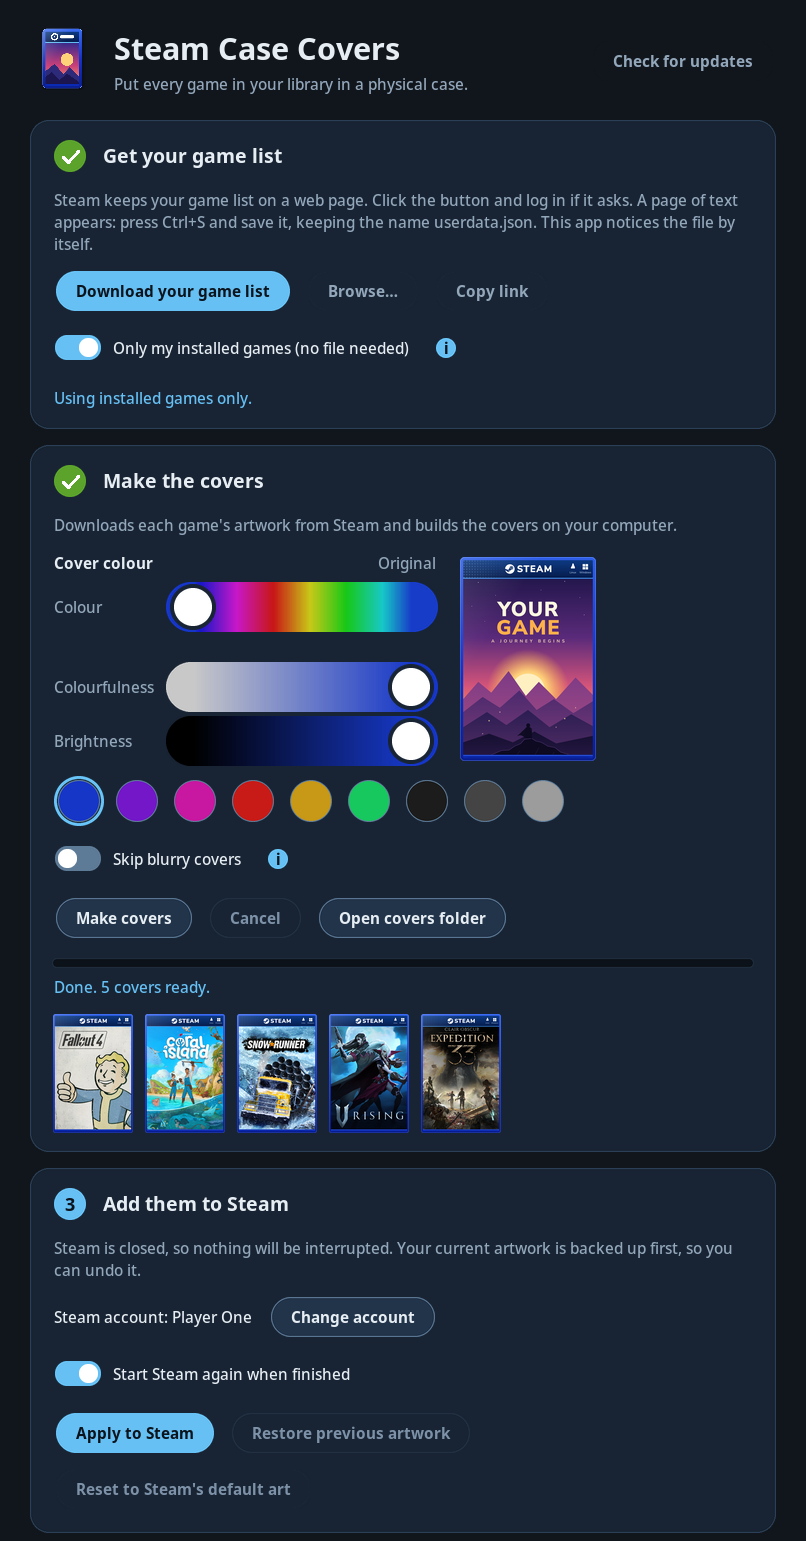
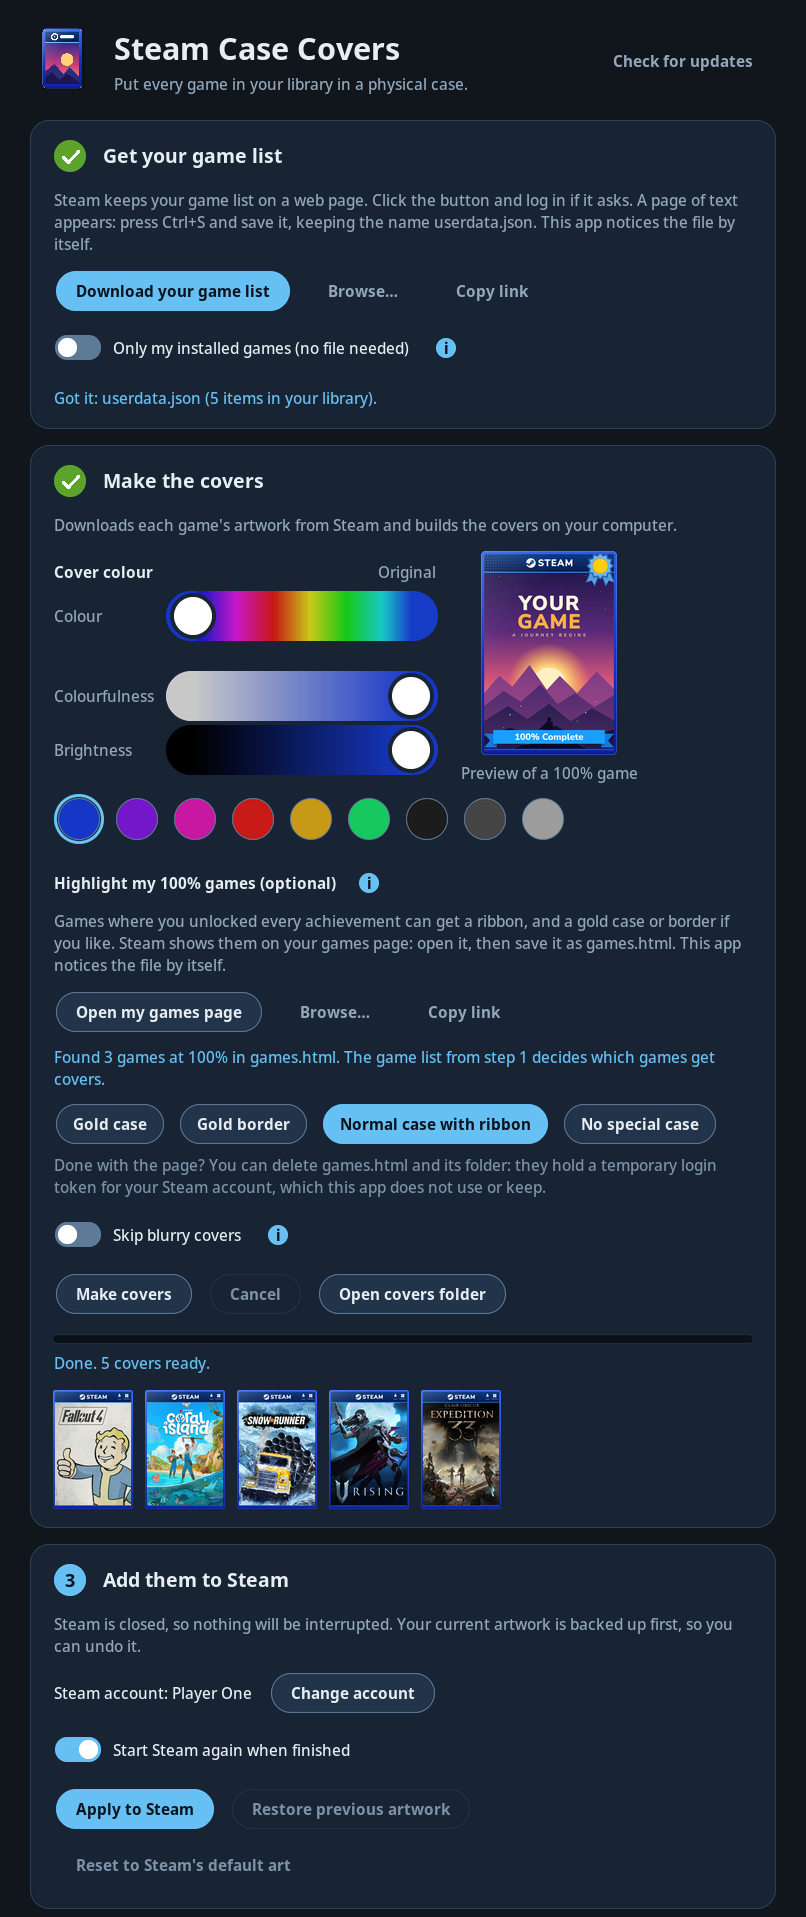
docs: describe highlighting 100% games

diff --git a/README.md b/README.md
@@ -126,6 +126,25 @@ Changed your mind?
 * **Restore previous artwork** undoes the last Apply. Press it again to go one step further back.
 * **Reset to Steam's default art** removes the covers this app made. It works even if you have no backup. If it also finds custom art that this app did not make (from SteamGridDB, or set by hand in Steam), it asks whether to remove that too: **Remove only ours** keeps it, **Remove all** brings back Steam's own art everywhere. Restore undoes either.
 
+### Optional: highlight your 100% games
+
+Step 2 has an optional block, **Highlight my 100% games**. Games where you unlocked every achievement get a rosette at the top right, on top of the platform badges, and a "100% Complete" ribbon at the bottom. It works like step 1: the app cannot see your achievements by itself, so you save one more page from your own browser.
+
+1. Click **Open my games page** (or **Copy link**). Your browser opens your Steam games page, sorted by achievements. Log in if it asks and wait until your games have loaded.
+2. Save it (Ctrl+S, or Cmd+S on a Mac) as **"Webpage, Complete"** in Chrome or Firefox, named `games.html`. Your browser also saves a folder next to it. The app notices the file in your Downloads folder by itself, or you can click **Browse…** and pick it.
+3. Choose how those games look: **Gold case** (the whole case turns gold), **Gold border** (a gold border around the outside of the case, which becomes about 5% smaller), **Normal case with ribbon** (your case stays as it is; this is the default once a page is loaded) or **No special case**. The choice only appears after a page is loaded. Then click **Make covers**.
+
+> [!NOTE]
+> The saved page contains a temporary login token for your Steam account. The app only reads which games are at 100%: it never uses, stores or logs the token. You can delete `games.html` and its folder once the covers are made. The app never deletes your files itself.
+
+Good to know:
+
+* Only games that are already in your step 1 list can be highlighted.
+* Steam's page shows progress only for games where you have unlocked at least one achievement. That is why only games at 100% are marked: there are no marks for games you have only started.
+* Switching the choice, or saving the page again after you finish another game and clicking **Make covers**, rebuilds only the covers that change. If you make covers without loading a page, covers that are already highlighted keep their highlight.
+* The page lists most of a library but not all of it. On the author's library it listed about 99% of the covers (509 of 515): a few old, free or hidden games are not on it and cannot be highlighted.
+* This was only tried with Chrome, on Linux, with Steam in one language. Firefox is expected to save the page the same way, and the app reads the progress without depending on the language of Steam's label, but none of that was tested. Windows and macOS were not tested either, and neither was a real touchscreen.
+
 ## Features
 
 ✅ Covers for your installed games, or your whole library <br>
@@ -135,6 +154,7 @@ Changed your mind?
 ✅ Cancel anytime; run again to continue <br>
 ✅ Optional "skip blurry covers" for games Steam has no real portrait for <br>
 ✅ Pick the colour, colourfulness and brightness of the cases with three sliders or a ready-made swatch (including black, graphite and silver), with a live preview. Only the original blue is checked for readable text <br>
+✅ Optional: games where you unlocked every achievement get a rosette and a "100% Complete" ribbon, and, if you like, a gold case or a gold border. You save one more page from your own browser; the app never uses the login token that page contains <br>
 ✅ Several Steam accounts on one computer: you choose which one gets the covers <br>
 ✅ Games shared through Steam Family Sharing get covers too, with a green corner and a family icon so you can tell them apart. The app finds them in Steam's own files on your computer, with nothing extra to download, but it needs your game list: with "Only my installed games" ticked, shared games that are not installed are left out. This is only tested on a small family, so please open an issue if games are missing from a big shared library. Save your game list again after you buy games, so the new ones are not mistaken for family games <br>
 ✅ Works with the keyboard, scales on high-DPI screens and fits small screens like the Steam Deck's <br>
@@ -169,6 +189,9 @@ python steamcase.py make --library userdata.json   # build covers
 python steamcase.py make --library userdata.json --hue 134   # ...in another case colour (0 to 359 degrees; 0 is the original blue)
 python steamcase.py make --library userdata.json --brightness 0   # ...a black case (0 to 100; 100 is the original)
 python steamcase.py make --library userdata.json --saturation 0 --brightness 60   # ...a grey case (--saturation also goes 0 to 100)
+python steamcase.py make --library userdata.json --games-page games.html   # ...with a rosette and a ribbon on your 100% games
+python steamcase.py make --library userdata.json --games-page games.html --completed-style gold-case   # ...also in a gold case (or gold-border)
+python steamcase.py make --library userdata.json --completed-style none   # ...and back to plain covers for 100% games
 python steamcase.py apply --close-steam            # install them
 python steamcase.py restore                        # undo the last apply
 python steamcase.py reset                          # back to Steam's default art
@@ -185,6 +208,8 @@ python steamcase.py reset --everything             # ...also removing art from o
 | `reset` | Remove the covers this app made from Steam (`--everything` also removes custom art from other sources) |
 
 `list` marks games from your Steam Family library with `(family)`. `make` keeps the colour of the covers already in the folder unless you pass `--hue`, `--saturation` or `--brightness`; an option you leave out keeps the value of the covers already there, or the original (`--hue 0 --saturation 100 --brightness 100` asks for the original blue). Saturation and brightness go from 0 to 100, where 100 is the original and lower values give a greyer or darker case.
+
+`--games-page FILE` is the games page saved as "Webpage, Complete" (see [above](#optional-highlight-your-100-games)). `--completed-style` is `ribbon` (the default when you pass a page), `gold-case`, `gold-border` or `none`; `none` removes the highlights from covers made before. Without either option, covers keep the look they have.
 
 Run `python steamcase.py -h` for all options, such as `--only`, `--hue`, `--saturation`, `--brightness`, `--skip-auto-art`, `--steam-dir` and `--user` (the account's folder number in Steam's `userdata`, to pick one of several accounts).
 
@@ -229,6 +254,27 @@ Games shared with you through Steam Family Sharing are not on your own game list
 <summary><b>What happens if I change the colour after I made covers?</b></summary>
 
 When you click **Make covers**, the app asks before it replaces the covers you already made in another colour or shade. If you say yes, it rebuilds them all in the new look, which downloads the artwork again. Steam keeps showing your current art until you add the new covers in step 3, and **Restore previous artwork** can undo that. There is one set of covers at a time. Only the original blue is checked for readable text: bright yellow or lime banners make the white text harder to read, and the same can happen with a very light case.
+
+</details>
+
+<details>
+<summary><b>Why does the games page need to be saved as "Webpage, Complete"?</b></summary>
+
+Steam builds that page in your browser after it loads. "Webpage, HTML only" saves only Steam's first answer, which holds just the 20 games you played most recently and no game rows, so the app finds nothing to read and tells you so. "Webpage, Complete" saves the page as it looks on screen, with every game. It also saves a folder of images (about 90 MB for a big library) that the app does not need.
+
+</details>
+
+<details>
+<summary><b>Can I remove the highlights later?</b></summary>
+
+Yes. Load a page again (or any page), choose **No special case** and click **Make covers**: the app asks first, then rebuilds the highlighted covers as normal ones. On the command line, use `--completed-style none`. Add the covers to Steam again in step 3 to see the change there.
+
+</details>
+
+<details>
+<summary><b>What happens when I finish another game?</b></summary>
+
+Save your games page again (same name, same way) and click **Make covers**. Only the covers that change are rebuilt.
 
 </details>
 

diff --git a/CHANGELOG.md b/CHANGELOG.md
@@ -3,6 +3,11 @@
 All notable changes. Versions follow [Semantic Versioning](https://semver.org); `0.x` versions are pre-releases.
 
 ## [Unreleased]
+- Step 2 has an optional block, "Highlight my 100% games". "Open my games page" opens your Steam games page; you save it from your own browser as "Webpage, Complete" (Chrome or Firefox), named `games.html`, and the app notices it in Downloads, or you pick it with "Browse…". Games with every achievement unlocked get a rosette at the top right, over the platform badges, and a "100% Complete" ribbon at the bottom. Once a page is loaded, a choice appears: "Gold case", "Gold border" (a gold border around the outside of the case, which gets about 5% smaller), "Normal case with ribbon" (the default) and "No special case". Only games already in your step 1 list can be highlighted. Switching the choice, or saving the page again after finishing another game and pressing Make covers, rebuilds only the covers that change. "No special case" removes the highlights on the next Make covers, after asking.
+- The window says plainly that the saved page contains a temporary login token for your Steam account. The app only reads which games are at 100%: it never uses, stores or logs the token, and never deletes your files.
+- `make` and `run` accept `--games-page FILE` and `--completed-style {ribbon,gold-case,gold-border,none}`. With a page and no style, it is `ribbon`; `none` removes the highlights. Without either option, covers keep their look.
+- Covers record their treatment in a third PNG note (`steamcase-done`). Covers made before this change keep working, and "Reset to Steam's default art" ("Remove only ours") still finds the highlighted covers.
+- Limits: the page lists about 99% of a library (509 of 515 covers on the author's), so a few old, free or hidden games cannot be highlighted. It shows progress only for games with at least one unlocked achievement, which is why only games at 100% are marked. Not tested: browsers other than Chrome, Steam in other languages, Windows, macOS and a real touchscreen.
 - The case can now be any shade, from vivid to dark grey and black. Step 2 has three sliders (Colour, Colourfulness and Brightness) and nine swatches (the six colours, then Black, Graphite and Silver), with the live preview. Colourfulness and Brightness go from 0 to 100, where 100 is the original blue's level, and they only go down, so there is no white case. The white logo and text stay white, and the green family corner stays green on every case. The Replace prompt and the preview use all three values.
 - `make` and `run` accept `--saturation PERCENT` and `--brightness PERCENT` (0 to 100) next to `--hue`. An option you leave out keeps the value of the covers already in the folder, else the original.
 - Covers record their tone in a second PNG note (`steamcase-tone`). Covers made before this change keep working: they count as full colourfulness and full brightness, and Reset still finds them. One limit: a grey or black cover that another program re-saved and that dropped its PNG notes is not found by "Remove only ours". "Remove all" still removes it.

diff --git a/THIRD_PARTY.md b/THIRD_PARTY.md
@@ -11,6 +11,8 @@ These marks appear in `assets/frame.png` only to mimic a physical box and show p
 
 `assets/family_corner.png` is a green corner with a three-person icon drawn to resemble the Family icon in Steam's settings. It is original artwork and is not Valve's file.
 
+`assets/completion_overlay.png` holds the rosette and the "100% Complete" ribbon drawn on covers of games where every achievement is unlocked. The rosette is an original drawing inspired by the look of Steam's old achievement ribbon; it is not Valve's artwork. The file is built by `tools/build_completion_overlay.py` with the Nunito Sans font credited below.
+
 `assets/default_art.png` (source: `tools/src/default_art.svg`) is original artwork drawn for this project and released under the project's licence. It is not taken from any game and is only used to preview the case colour.
 
 ## Included files
@@ -22,7 +24,7 @@ These marks appear in `assets/frame.png` only to mimic a physical box and show p
 
 `assets/icon.*` (the app icon, source in `tools/src/icon.svg`) is original artwork released under the same license as the code (GPL-3.0-or-later). It deliberately does not use the Steam logo.
 
-The font and the SVG sources are only used by `tools/build_frame.py`, `tools/build_icon.py` and `tools/build_default_art.py` to render `assets/frame.png`, the icons and `assets/default_art.png`. They are not needed to run the app.
+The font and the SVG sources are only used by `tools/build_frame.py`, `tools/build_icon.py`, `tools/build_default_art.py` and `tools/build_completion_overlay.py` to render `assets/frame.png`, the icons, `assets/default_art.png` and `assets/completion_overlay.png`. They are not needed to run the app.
 
 ## Game artwork
 The preview image at the top of the README (`assets/preview.png`) shows covers of a few games (SnowRunner, Coral Island, Clair Obscur: Expedition 33, Fallout 4 and V Rising), the screenshot of the app window (`assets/screenshot.png`) shows the same five, and the screenshot of a Steam library further down (`assets/steam-library.png`) shows covers of about twenty games, only to show what the app produces. That artwork, and the games' names and logos, belong to their publishers and developers. They are not covered by this project's license. If a rights holder objects, the image will be removed.
